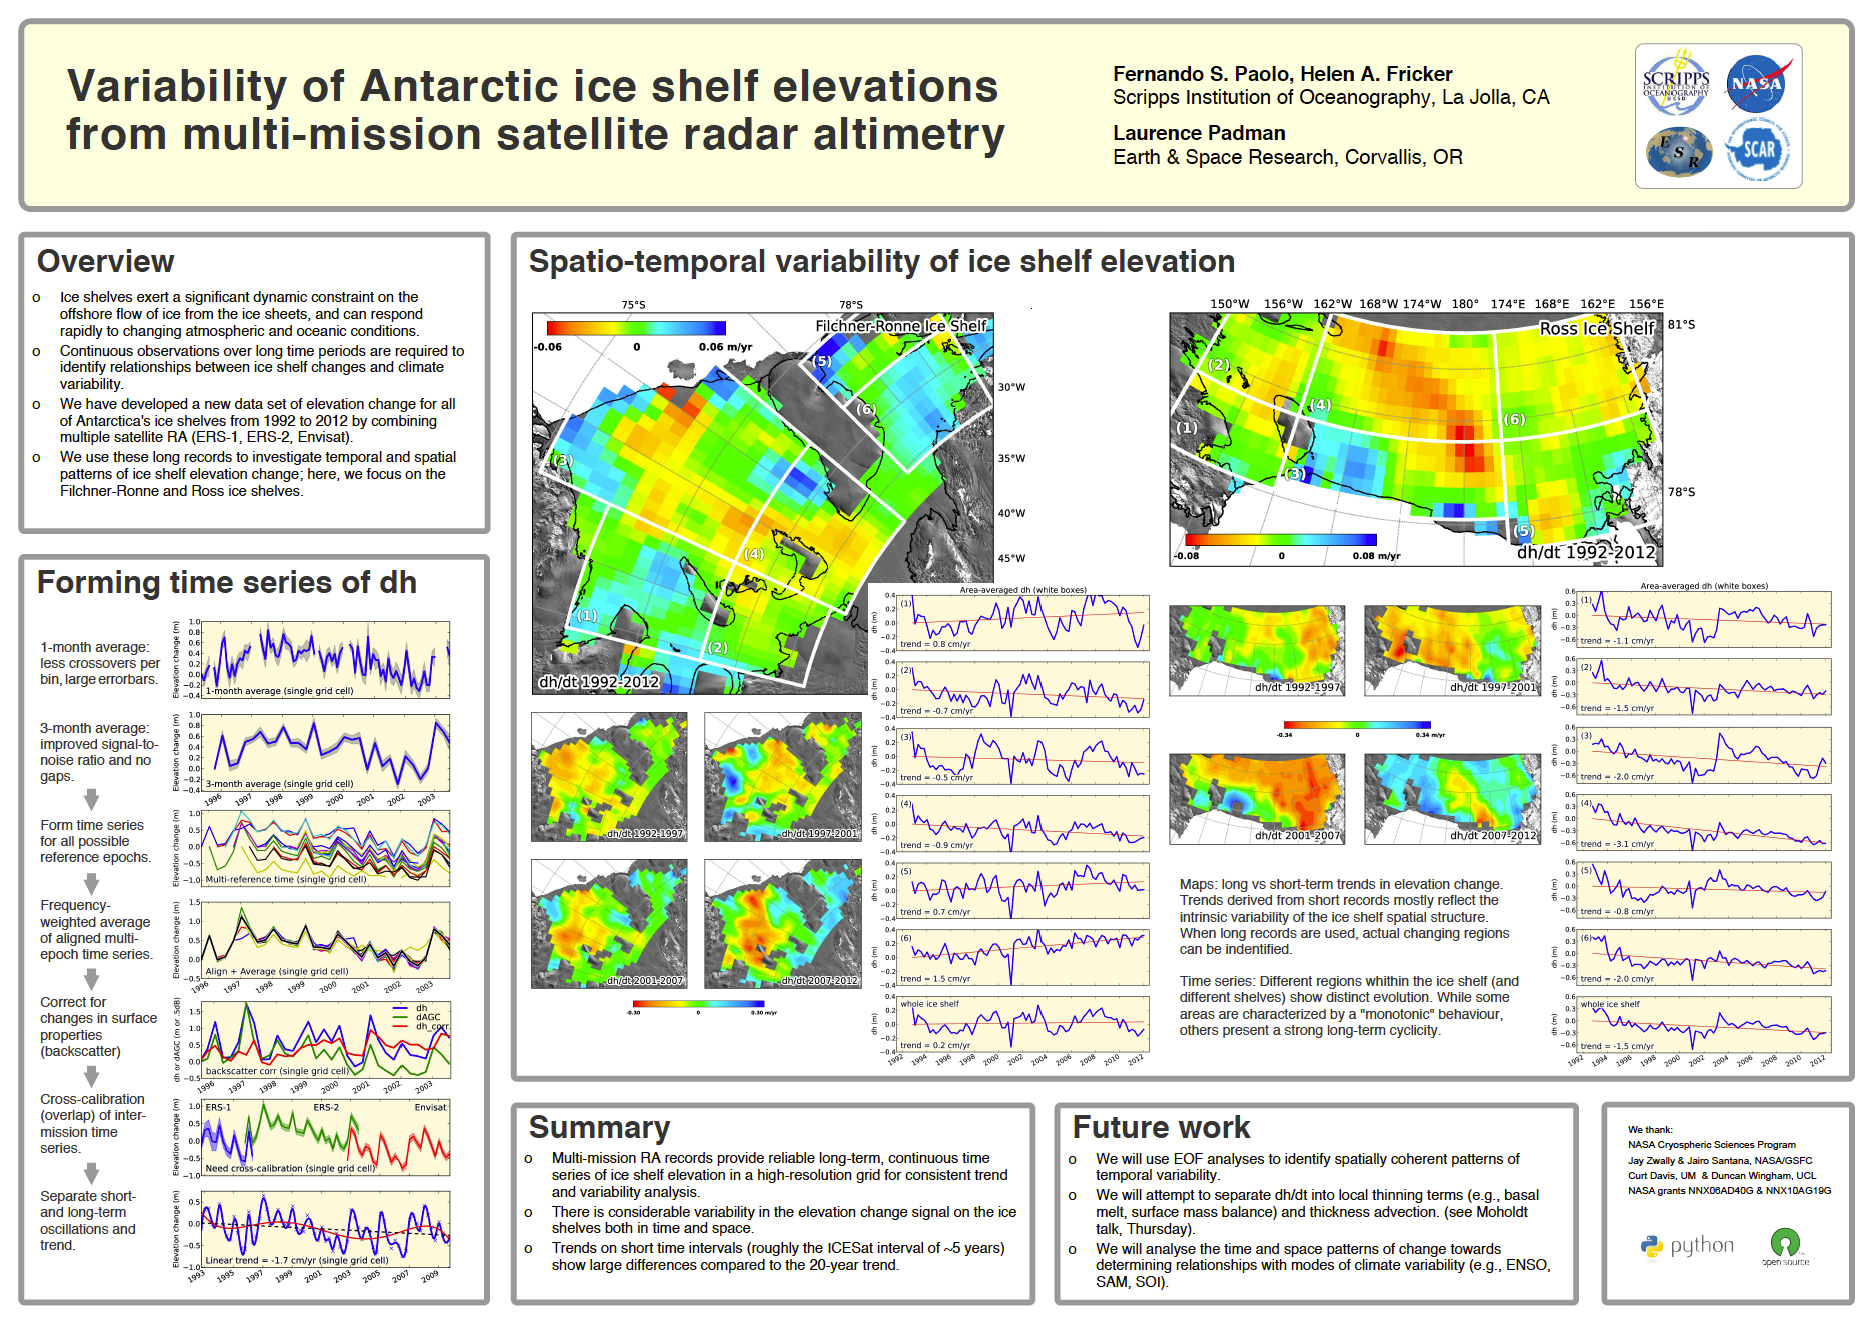
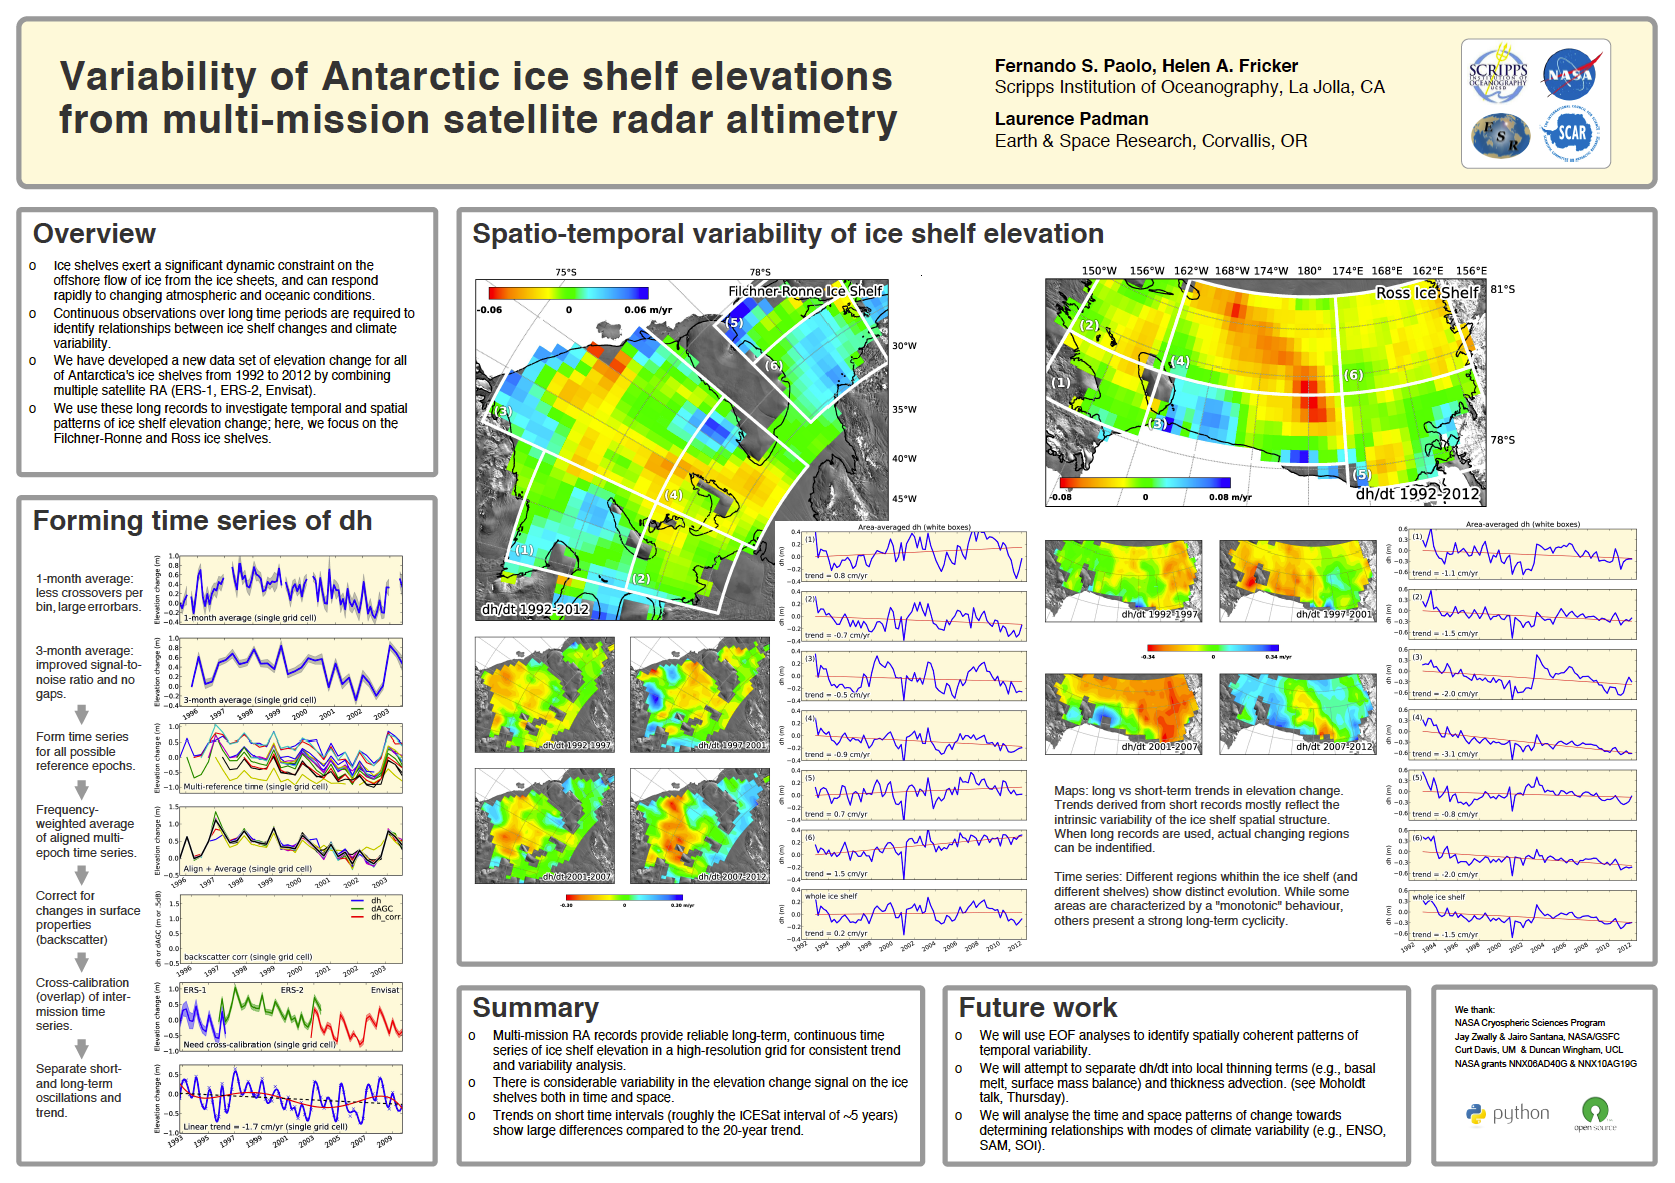
added poster agu12

diff --git a/misc/index.html b/misc/index.html
@@ -121,7 +121,14 @@
 <h2 id="talk-aaaspd-2011">Talk <span class="caps">AAASPD</span>&nbsp;2011</h2>
 <p>Elevation changes on antarctic ice shelves, <span class="caps">AAAS</span> Pacific Division 92nd Annual Meeting in San Diego/<span class="caps">US</span>, Jun 2011 (for general public) [<a href="http://www.slideshare.net/FernandoPaolo/paolo-aaas2011">slides</a>]</p>
 <h2 id="poster-agu-2012">Poster <span class="caps">AGU</span>&nbsp;2012</h2>
-<p>coming&#8230;</p>
+<p>Spatio-temporal variability of Antarctic ice shelf elevations from multi-mission satellite&nbsp;altimetry.</p>
+<p><img alt="poster SCAR 2012" src="/media/images/paolo_agu12.png" /></p>
+<p>Poster made using the <a href="http://www.scribus.net/canvas/Scribus">Scribus</a> Open Source Desktop Publishing. Here is the Scribus template and <span class="caps">PDF</span>: <a href="https://dl.dropbox.com/u/12601128/posters/paolo_agu12.tgz">paolo_agu12.tgz</a></p>
+<p>To decompress the&nbsp;tarball:</p>
+<div class="codehilite"><pre><span class="nv">$ </span>tar xzf paolo_scar12.tgz
+</pre></div>
+
+
 <h2 id="poster-scar-2012">Poster <span class="caps">SCAR</span>&nbsp;2012</h2>
 <p>Variability of Antarctic ice shelf elevations from multi-mission satellite radar&nbsp;altimetry.</p>
 <p><img alt="poster SCAR 2012" src="/media/images/paolo_scar12.png" /></p>
@@ -133,7 +140,7 @@
 
 <h2 id="poster-agu-2011">Poster <span class="caps">AGU</span>&nbsp;2011</h2>
 <p>Long term elevation changes on Antarctic ice shelves from multi-mission&nbsp;<span class="caps">RA</span>.</p>
-<p><img alt="poster AGU 2011" src="/media/images/paolo_agu2011.png" /></p>
+<p><img alt="poster AGU 2011" src="/media/images/paolo_agu11.png" /></p>
 <p>This poster was made using <a href="http://www.latex-project.org/">LaTeX</a> and the <a href="http://www-i6.informatik.rwth-aachen.de/~dreuw/latexbeamerposter.php">Beamerposter</a> package. I&#8217;ve created a custom theme <code>beamerthemeAGU2011.sty</code> based on one of the default themes. If you are interested in using (and modifying) this template, download the tarball with the LaTeX source code and figures (<span class="caps">PDF</span> of the poster included): <a href="http://dl.dropbox.com/u/12601128/agu/paolo_agu2011.tgz">paolo_agu2011.tgz</a></p>
 <p>Decompress the&nbsp;tarball:</p>
 <div class="codehilite"><pre><span class="nv">$ </span>tar xzf paolo_agu2011.tgz
@@ -148,7 +155,7 @@
 
 <h2 id="poster-agu-2010">Poster <span class="caps">AGU</span>&nbsp;2010</h2>
 <p>Three decades of change on Antarctica&#8217;s major ice shelves from multi-mission satellite&nbsp;altimetry.</p>
-<p><img alt="poster AGU 2010" src="/media/images/paolo_agu2010.png" /></p>
+<p><img alt="poster AGU 2010" src="/media/images/paolo_agu10.png" /></p>
 <p>This poster was made using <a href="http://www.latex-project.org/">LaTeX</a> with the <a href="http://www-i6.informatik.rwth-aachen.de/~dreuw/latexbeamerposter.php">Beamerposter</a> package. I&#8217;ve modified one of the default themes to my own needs (and taste). If you are interested in using (and modifying) this template, just download the tarball with the LaTeX source code and figures: <a href="http://quakeinfo.ucsd.edu/~fpaolo/files/paolo_agu2010.tar.bz2">paolo_agu2010.tar.bz2</a></p>
 <p>Decompress the&nbsp;tarball:</p>
 <div class="codehilite"><pre><span class="nv">$ </span>tar xjf paolo_agu2010.tar.bz2
